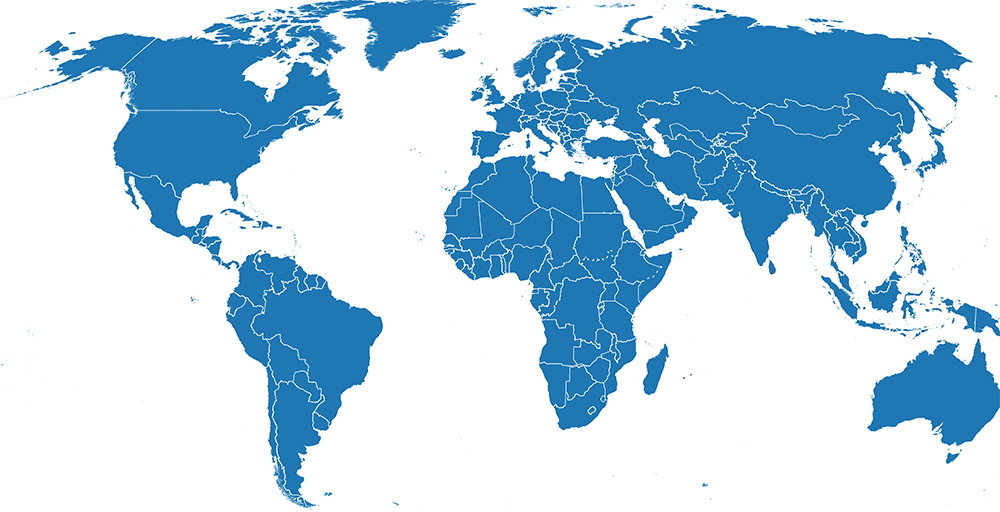
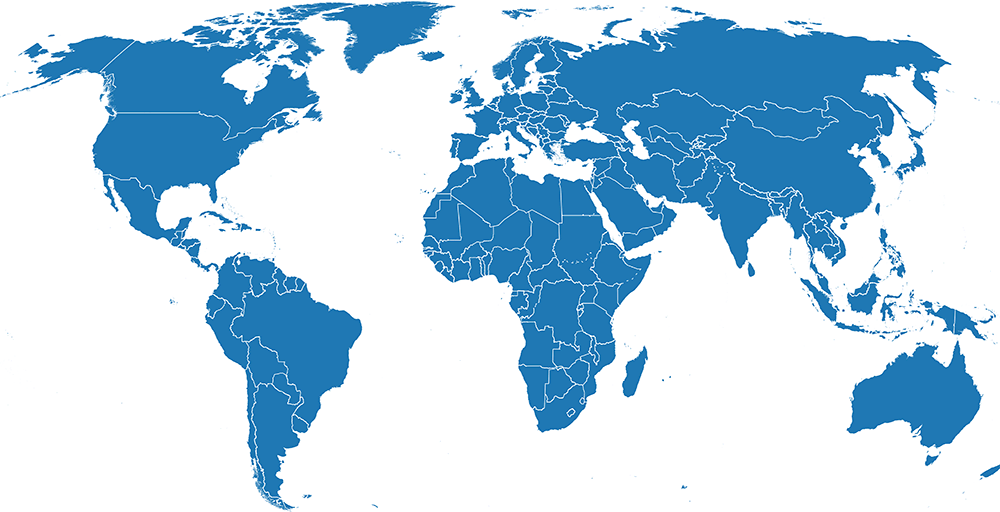
update images

diff --git a/src/components/common/metadata.tsx b/src/components/common/metadata.tsx
@@ -3,7 +3,7 @@ import { Helmet } from 'react-helmet';
 import '../../styles/main.sass';
 
 const url = 'https://fieldmaps.io/';
-const img = 'https://fieldmaps.io/img/edge-matched.png';
+const img = 'https://fieldmaps.io/img/edge-matched-preview.png';
 const title = 'Fieldmaps.io — Humanitarian Maps & Data';
 const description =
   'Mobile, offline, interactive reference maps & globally aggregated datasets for humanitarian use.';
